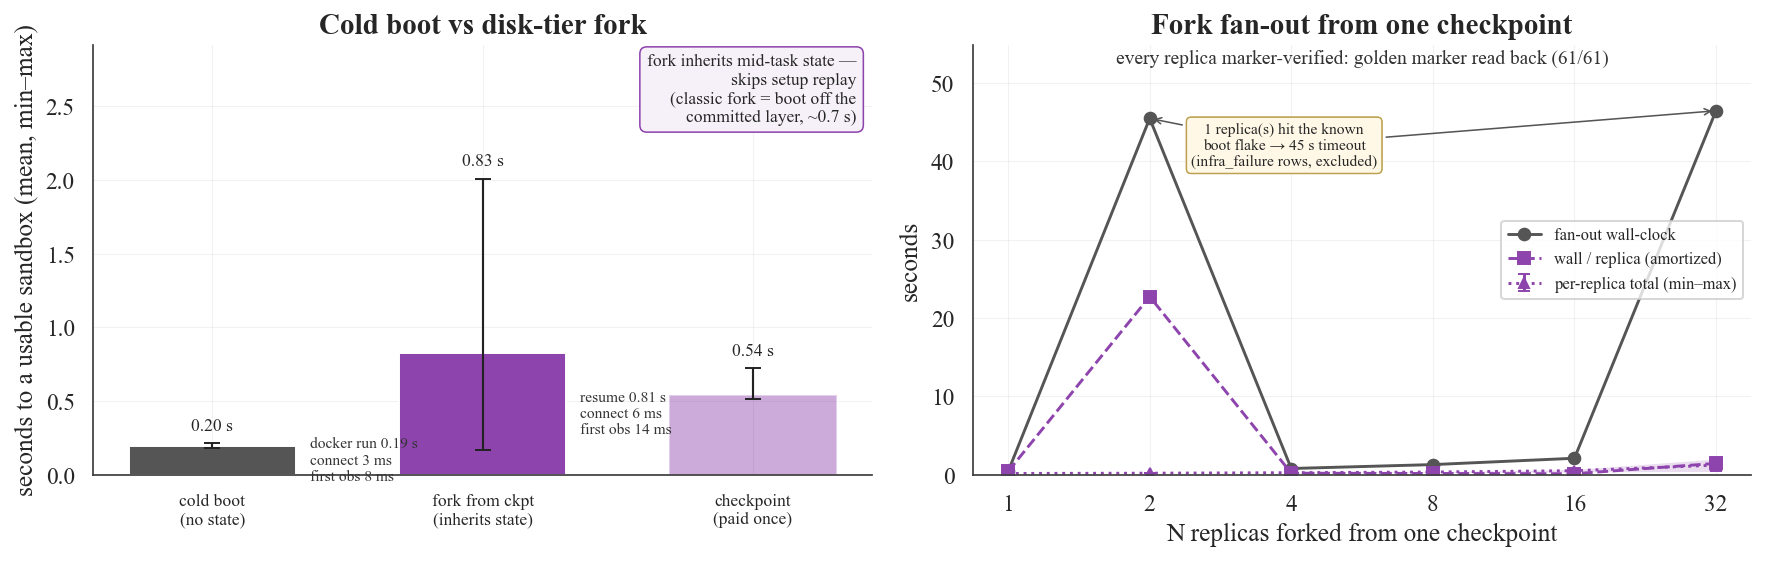
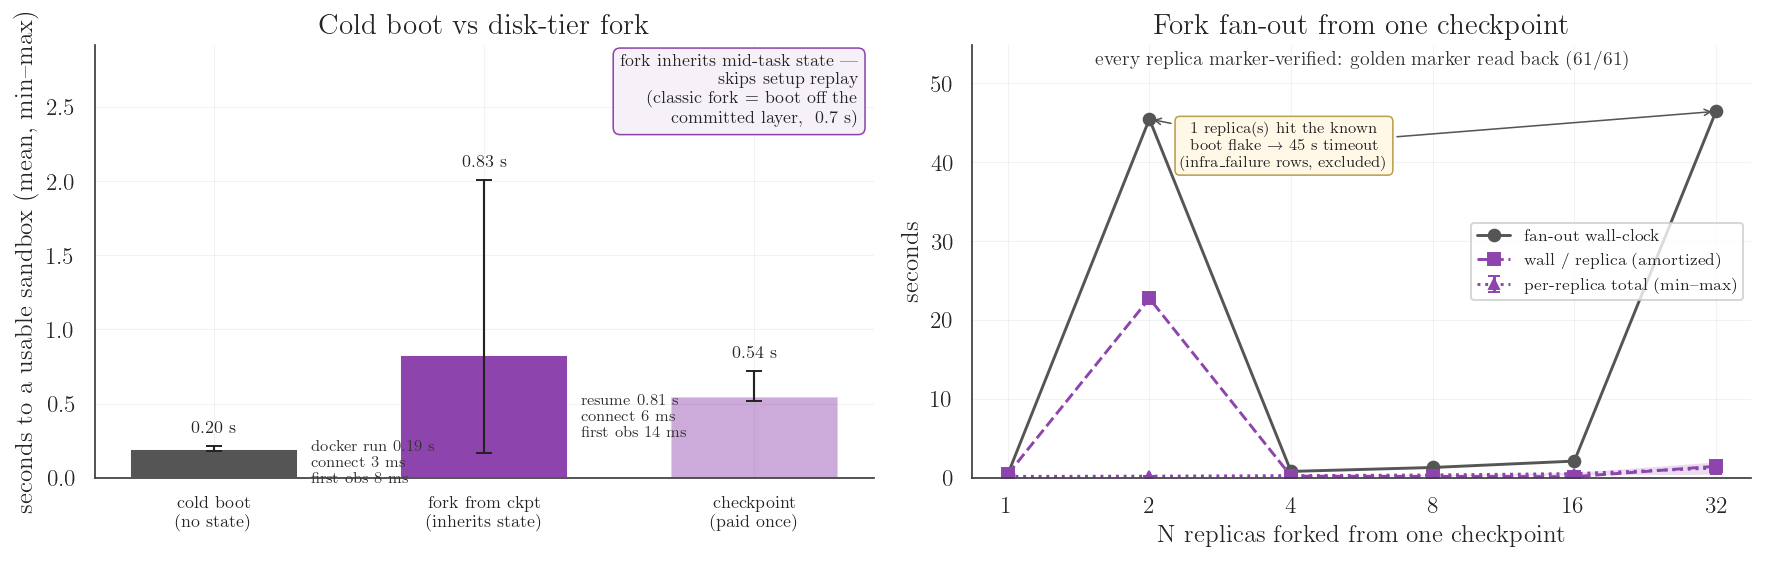
feat(figures): LaTeX typography restored (conditional usetex) + README leads with performance and scale (#294)
Typography: the usetex removal traded the Computer Modern look for a
contributor-repro fix — restore both. style() now enables usetex IFF a LaTeX
toolchain is on PATH (latex + dvipng), so the tracked figures ship with the CM
typography again while replot.py still runs TeX-less anywhere. Suite text made
both-mode safe: unicode math (×, ≈, →, ·, ~) converted to $\times$/$\approx$/
$\to$/$\cdot$/$\sim$ mathtext (renders in both engines), and literal % routed
through a new _common.pct() helper (TeX comment char silently truncated labels —
guest_cpu's y-label and obs_quality's 99% bar were being eaten). Seaborn
whitegrid stays the base theme. All 21 PNGs regenerated from tracked JSONs.

README figure lineup now emphasizes PERFORMANCE and SCALE, not codec internals:
- §1 adds boot_waterfall.png (push-based readiness: create() 7.7 s -> 0.16 s)
  under the fork ladder;
- §2 adds client_scale.png (3,096 live sessions on ONE thread, 870 Mbps
  sustained) above the 128-real-desktops fan-out;
- "How it compares" adds baseline_cua.png (61x cheaper per act+observe step
  than trycua/cua, same laptop, both stacks as shipped);
- obs_quality.png (compression/legibility detail) moves out of the README to
  the benchmark report, linked from the prose.

diff --git a/benchmarks/bench_fork_dedup.py b/benchmarks/bench_fork_dedup.py
@@ -66,6 +66,7 @@ from _common import (
     fs_digest,
     new_axes,
     now_ms,
+    pct,
     save_plot,
     settled_frame_hash,
     state_verify_levels,
@@ -470,7 +471,7 @@ def plot(payload: dict) -> None:
             ax1.text(
                 x,
                 max(o, policy[x]) * 1.06,
-                f"{o / s:.1f}× cut",
+                f"{o / s:.1f}$\\times$ cut",
                 ha="center",
                 fontsize=12,
                 fontweight="bold",
@@ -482,8 +483,8 @@ def plot(payload: dict) -> None:
     ax1.set_xlabel("fleet size (replicas forked from one golden checkpoint)")
     ax1.set_ylabel("wire KiB / observe-all round")
     ax1.set_title(
-        f"Static fleet pays each screen once; full divergence re-pays ≈ baseline "
-        f"({pol_vs_off:.1f}× of off)"
+        f"Static fleet pays each screen once; full divergence re-pays $\\approx$ baseline "
+        f"({pol_vs_off:.1f}$\\times$ of off)"
     )
     ax1.legend(loc="upper left")
 
@@ -541,7 +542,7 @@ def plot(payload: dict) -> None:
         )
     if f["policy"].get("diverge_at") is not None:
         ax2.annotate(
-            "every replica acts on a distinct path:\n0% hits — full frames re-paid each round",
+            pct("every replica acts on a distinct path:\n0% hits — full frames re-paid each round"),
             xy=(3.0, 0.02),
             xytext=(3.1, 0.32),
             **ann,
@@ -551,13 +552,15 @@ def plot(payload: dict) -> None:
     ax2.set_xlabel("observe-all round (dedup on)")
     ax2.set_ylabel("dedup hit rate")
     ax2.set_title(
-        f"Hit rate follows true divergence (N={n}): races miss once, static ~100%, diverged 0%"
+        pct(f"Hit rate follows true divergence (N={n}): races miss once, static $\\sim$100%, diverged 0%")
     )
     ax2.legend(loc="upper right")
 
     fig.suptitle(
-        f"Forked fleets pay for each distinct screen once: "
-        f"{cut:.1f}× wire cut at {hit:.1%} dedup hit rate",
+        pct(
+            f"Forked fleets pay for each distinct screen once: "
+            f"{cut:.1f}$\\times$ wire cut at {hit:.1%} dedup hit rate"
+        ),
         y=1.01,
         va="bottom",
     )
@@ -668,9 +671,9 @@ def main() -> int:
     plot(payload)
     s = payload["summary"]
     print(
-        f"static ceiling: {s['static_ceiling']['bytes_cut_factor']}× bytes cut, "
+        f"static ceiling: {s['static_ceiling']['bytes_cut_factor']}$\\times$ bytes cut, "
         f"hit rate {s['static_ceiling']['hit_rate']}; "
-        f"concurrent round0 {s['concurrent']['round0_hit_rate']} → steady "
+        f"concurrent round0 {s['concurrent']['round0_hit_rate']} $\\to$ steady "
         f"{s['concurrent']['steady_hit_rate']}; "
         f"policy diverged hit rate {s['policy_divergence']['diverged_hit_rate']} "
         f"(steady {s['policy_divergence']['steady_hit_rate']}); "

diff --git a/benchmarks/_common.py b/benchmarks/_common.py
@@ -466,24 +466,32 @@ def style() -> None:
     """Apply the one shared matplotlib style (Agg, no display). Idempotent; called
     by ``new_axes`` and importable by any plotting script outside this package.
 
-    Paper aesthetic WITHOUT a TeX dependency: serif text via matplotlib's own
-    renderer (``usetex`` made ``replot.py`` fail on any machine without a LaTeX
-    install — a contributor-facing reproducibility bug) and font sizes chosen for
-    the README embed width (820 px): GitHub scales a 2-panel figure to ~0.6x, so
-    a 13 pt base lands ~8 pt effective — the floor for legibility. Suites should
-    keep export width <= 2 panels (~1640 px) and put the TAKEAWAY in the title,
-    not the axis statement."""
+    Paper aesthetic, TeX OPTIONAL: when a LaTeX toolchain is on PATH (latex +
+    dvipng), text renders through ``usetex`` — the Computer Modern look the
+    tracked figures ship with. Without TeX, the same figures render through
+    matplotlib's own serif engine (Times New Roman/STIX), so ``replot.py`` runs
+    on any contributor machine — the hard TeX dependency was a reproducibility
+    bug. Suite text must therefore be BOTH-MODE SAFE: use ``$\\times$``-style
+    mathtext (works in both renderers) and route literal ``%`` through
+    :func:`pct`. Font sizes are chosen for the README embed width (820 px):
+    GitHub scales a 2-panel figure to ~0.6x, so a 13 pt base lands ~8 pt
+    effective — the floor for legibility. Suites should keep export width <= 2
+    panels (~1640 px) and put the TAKEAWAY in the title, not the axis
+    statement."""
+    import shutil
+
     import matplotlib
 
     matplotlib.use("Agg")
     import matplotlib.pyplot as plt
     import seaborn as sns
 
+    use_tex = bool(shutil.which("latex") and shutil.which("dvipng"))
     sns.set_theme(context="notebook", style="whitegrid")
     plt.rcParams.update(
         {
             "figure.dpi": 140,
-            "text.usetex": False,
+            "text.usetex": use_tex,
             "font.family": "serif",
             "font.serif": ["Times New Roman", "STIXGeneral", "DejaVu Serif"],
             "mathtext.fontset": "stix",
@@ -507,6 +515,15 @@ def style() -> None:
             "axes.linewidth": 0.9,
         }
     )
+
+def pct(s: str) -> str:
+    """Make a string containing literal ``%`` safe for the active text renderer:
+    escaped for usetex (TeX comment char), untouched for mathtext. Call AFTER
+    :func:`style` (it reads the live rcParam)."""
+    import matplotlib.pyplot as plt
+
+    return s.replace("%", r"\%") if plt.rcParams.get("text.usetex") else s
+
 
 def new_axes(ncols: int = 1, *, height: float = 4.2, width: float = 6.4, nrows: int = 1):
     """Consistent matplotlib axes for every suite figure."""

diff --git a/benchmarks/bench_obs_quality.py b/benchmarks/bench_obs_quality.py
@@ -816,7 +816,7 @@ _STRATUM_STYLE = {  # color + marker per stratum (no red/green pair)
 
 
 def plot(payload: dict) -> None:
-    from _common import new_axes, save_plot
+    from _common import new_axes, pct, save_plot
     from matplotlib.lines import Line2D
 
     fig, (ax1, ax2) = new_axes(2, width=5.8, height=5.1)
@@ -846,21 +846,23 @@ def plot(payload: dict) -> None:
         c["legible_frac"] for c in text_cells if c["tier"] not in _NATIVE_TIERS
     )
     ax1.set_title(
-        f"q80 at native scale stays {100 * native_min:.0f}% legible;\n"
-        f"every downscale breaks text (best cell {100 * down_max:.0f}%)"
+        pct(
+            f"q80 at native scale stays {100 * native_min:.0f}% legible;\n"
+            f"every downscale breaks text (best cell {100 * down_max:.0f}%)"
+        )
     )
     ax1.axhline(99.0, color=PALETTE["neutral"], ls=":", lw=1.2)
     ax1.text(
         0.02,
         0.915,
-        "99% legibility bar",
+        pct("99% legibility bar"),
         transform=ax1.transAxes,
         fontsize=11,
         color=PALETTE["neutral"],
     )
     ax1.set_xscale("log")
     ax1.set_xlabel("KiB per frame, log (delta tier: whole stream)")
-    ax1.set_ylabel("% elements legible (control-conditioned)")
+    ax1.set_ylabel(pct("% elements legible (control-conditioned)"))
     ax1.set_ylim(-4, 112)
     ax1.legend(
         handles=[
@@ -931,7 +933,7 @@ def plot(payload: dict) -> None:
     ax2.text(
         0.02,
         0.835,
-        "99% bar",
+        pct("99% bar"),
         transform=ax2.transAxes,
         fontsize=11,
         color=PALETTE["neutral"],
@@ -940,7 +942,7 @@ def plot(payload: dict) -> None:
     ax2.set_xticklabels(
         [_TIER_TICKS[t] for t in tiers], rotation=20, ha="right", fontsize=11
     )
-    ax2.set_ylabel("% elements legible (control-conditioned)")
+    ax2.set_ylabel(pct("% elements legible (control-conditioned)"))
     ax2.set_ylim(-4, 112)
     ax2.set_title("Legibility by font size — small text breaks first")
     ax2.legend(

diff --git a/benchmarks/bench_codec_ladder.py b/benchmarks/bench_codec_ladder.py
@@ -249,7 +249,7 @@ def plot(payload: dict) -> None:
     ax_q.text(
         78.5,
         j80_photo * 2.2,  # the clear band between the dense-text and photo curves
-        f"{png_photo / j80_photo:.0f}× at q80",
+        f"{png_photo / j80_photo:.0f}$\\times$ at q80",
         color=_SCEN_HUES["photo"],
         ha="right",
         va="center",
@@ -300,7 +300,7 @@ def plot(payload: dict) -> None:
     ax_d.text(
         xs_px[-1],
         min(all_kib) * 1.05,
-        f"photo, PNG 1280 px → q80 512 px: {png_photo / j80_512_photo:.0f}× smaller",
+        f"photo, PNG 1280 px $\\to$ q80 512 px: {png_photo / j80_512_photo:.0f}$\\times$ smaller",
         color=_SCEN_HUES["photo"],
         ha="right",
         va="bottom",
@@ -317,9 +317,9 @@ def plot(payload: dict) -> None:
     ]
     lever = sum(levers) / len(levers)
     fig.suptitle(
-        f"JPEG q80 cuts the photo frame {png_photo / j80_photo:.0f}× vs PNG but only "
-        f"{png_dense / j80_dense:.1f}× on dense text (PNG wins the flat desktop);\n"
-        f"downscaling 1280 → 512 px is a uniform ~{lever:.1f}× lever on every scene",
+        f"JPEG q80 cuts the photo frame {png_photo / j80_photo:.0f}$\\times$ vs PNG but only "
+        f"{png_dense / j80_dense:.1f}$\\times$ on dense text (PNG wins the flat desktop);\n"
+        f"downscaling 1280 $\\to$ 512 px is a uniform $\\sim${lever:.1f}$\\times$ lever on every scene",
         y=1.10,
     )
 

diff --git a/benchmarks/bench_guest_cpu.py b/benchmarks/bench_guest_cpu.py
@@ -29,6 +29,7 @@ import os
 import time
 
 from _common import boot as _boot_default
+from _common import pct
 from _common import GEOMETRY, IMAGE, new_axes, save_plot, write_result
 
 FPS_LEVELS = [5.0, 10.0, 30.0]
@@ -282,7 +283,7 @@ def plot(payload: dict) -> None:
         )
         ax.set_xticks(list(x))
         ax.set_xticklabels(labels)
-        ax.set_ylabel("guest CPU % of one core (shinkend + Xvfb)")
+        ax.set_ylabel(pct("guest CPU % of one core (shinkend + Xvfb)"))
         ax.set_title(
             f"Guest capture cost — {workload} desktop\n"
             f"(delta-JPEG q80 stream, {payload['window_s']:g}s windows)"

diff --git a/benchmarks/bench_baseline_cua.py b/benchmarks/bench_baseline_cua.py
@@ -393,7 +393,7 @@ async def leg_cua_docker_async() -> dict:
             resumes.append(round(now_ms() - t0, 1))
         leg["suspend_ms"] = pauses
         leg["resume_ms"] = resumes
-        print(f"cua pause p50≈{sorted(pauses)[len(pauses) // 2]} ms", flush=True)
+        print(f"cua pause p50$\\approx${sorted(pauses)[len(pauses) // 2]} ms", flush=True)
     finally:
         await sb.destroy()
     if flakes:

diff --git a/benchmarks/bench_client_scale.py b/benchmarks/bench_client_scale.py
@@ -523,7 +523,7 @@ def plot(payload: dict) -> None:
         zorder=6,
     )
     ax_b.annotate(
-        f"{sus['sustained_decoded_mbps']:.0f} Mbps · "
+        f"{sus['sustained_decoded_mbps']:.0f} Mbps $\\cdot$ "
         f"{sus['sustained_frames_per_s']:,.0f} frames/s\n"
         f"sustained {sus['window_s']:.0f} s at {sus['client_cpu_cores']:.2f} cores",
         xy=(sus["n"], sus["sustained_decoded_mbps"]),

diff --git a/README.md b/README.md
@@ -259,9 +259,10 @@ with the donor still running (**0.70 s**), **fork → usable in 0.40 s** carryin
 process+memory state* — open apps, mid-task processes, in-heap program state, proven per
 replica by an in-memory marker no files-only mechanism can fake (privileged containers by
 necessity: a latency/state-fidelity tier, not an isolation posture). Cold boot → usable is
-~0.2 s after push-based readiness.
+~0.2 s after push-based readiness (S9 took it from ~7.7 s — the waterfall below).
 
 <p align="center"><img src="docs/assets/bench/fork_ladder.png" width="820"></p>
+<p align="center"><img src="docs/assets/bench/boot_waterfall.png" width="820"></p>
 
 **2 — Fork-native consumption: what the ladder buys when loops run on it.** The gym facade's
 `reset()` *is* a fork: task setup runs once into a golden checkpoint and every episode forks a
@@ -275,6 +276,7 @@ holds **3,096 live ACI sessions on one event-loop thread** — sustained **2,320
 ~870 Mbps decoded ingest at 0.93 cores** (183,216 measured observations; protocol-faithful
 synthetic peers).
 
+<p align="center"><img src="docs/assets/bench/client_scale.png" width="820"></p>
 <p align="center"><img src="docs/assets/bench/local_fanout.png" width="820"></p>
 
 **3 — Fleet observation dedup: the fork dividend.** Replicas forked from one checkpoint render
@@ -328,9 +330,7 @@ text falls to 25% at q80@1024; q50@512 reads nothing on any text stratum) — so
 stay the defaults and downscale is for layout-level tasks. A real-model pilot confirms the
 failure mode is codec-visual, not actuation (Kimi K2.6: 4/4 exact transcriptions on the
 lossless control vs 0/4 at q50@1024, lost to single-glyph JPEG misreads). Full ladders and
-the fleet egress projections: [`docs/benchmarks/`](docs/benchmarks/README.md).
-
-<p align="center"><img src="docs/assets/bench/obs_quality.png" width="820"></p>
+the fleet egress projections, and the legibility figures: [`docs/benchmarks/`](docs/benchmarks/README.md).
 
 **Functional.** Single-task OSWorld gate passed (1 task of the 369-task suite: Kimi K2.6 over
 `shinkend`, official evaluator **score 1.0**, 6 steps, 110 s — a conformance sweep has not
@@ -355,7 +355,9 @@ Shinken's wedge is the unclaimed intersection, not winning any single axis. Surv
 
 The cua and e2b cells marked *measured* are first-party, rerunnable numbers — both stacks as
 shipped, same host, same window, pinned versions
-([S12](docs/engineering/benchmarks.md), [`docs/benchmarks/`](docs/benchmarks/README.md) §7).
+([S12](docs/engineering/benchmarks.md), [`docs/benchmarks/`](docs/benchmarks/README.md) §7):
+
+<p align="center"><img src="docs/assets/bench/baseline_cua.png" width="820"></p>
 
 ## Operation-layer backends
 
